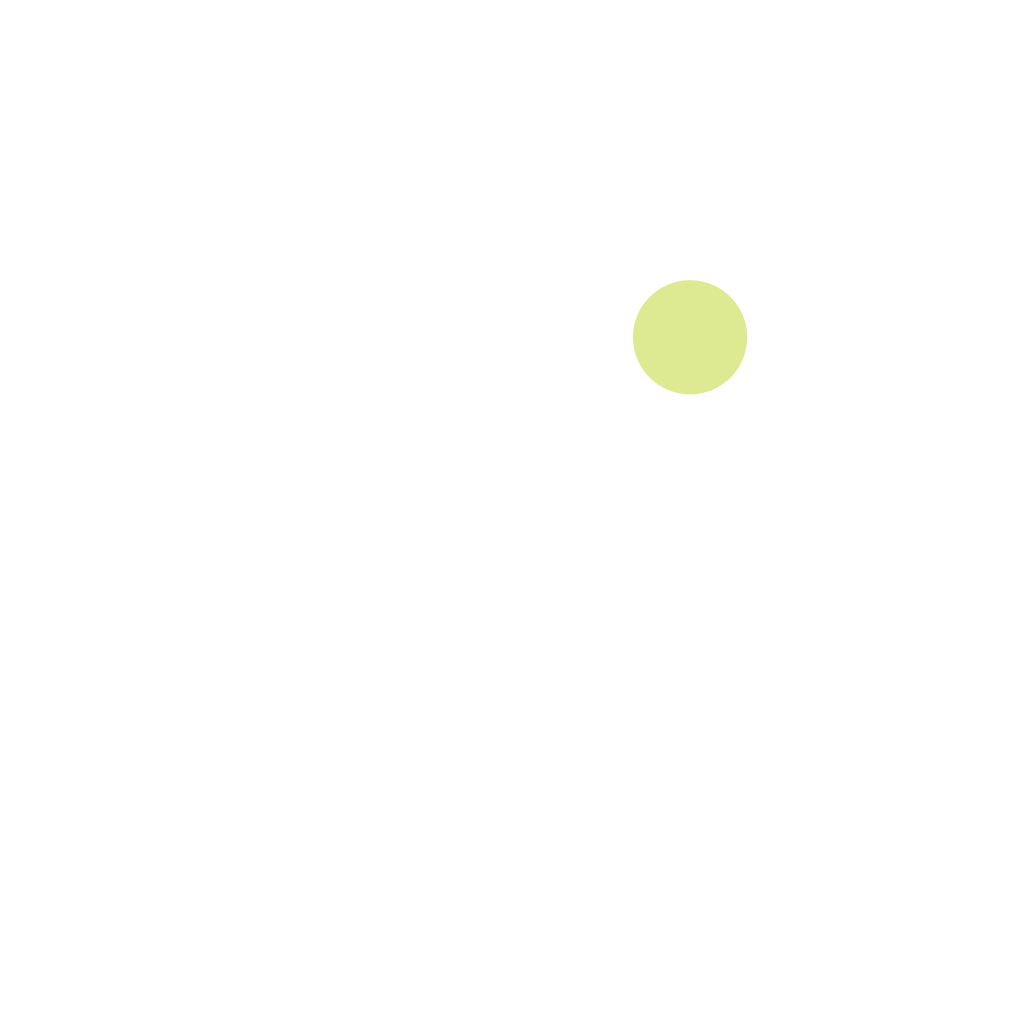
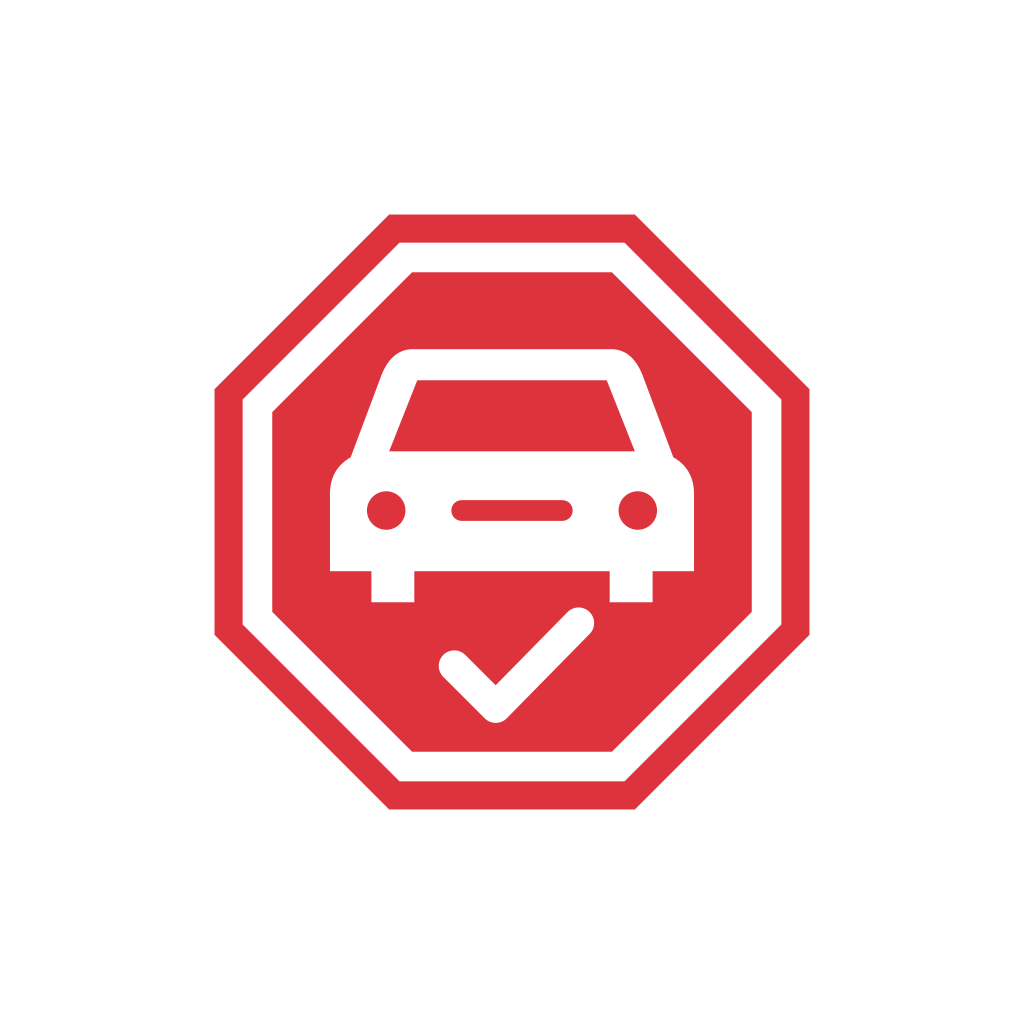
Use descriptive theory-test name and stop-sign-inspired identity

Changed region(s): [[0.1875, 0.1875, 0.8125, 0.8125]]

diff --git a/App.tsx b/App.tsx
@@ -322,8 +322,8 @@ function AppContent() {
         <View style={styles.header}>
           <Image accessible={false} source={brandAssets['brand-mark']} style={styles.brandMark} />
           <View style={styles.headerCopy}>
-            <Text style={styles.headerTitle}>Roadstep</Text>
-            <Text style={styles.headerEyebrow}>UK THEORY · TEST BUILD</Text>
+            <Text style={styles.headerTitle}>Driving Theory Test</Text>
+            <Text style={styles.headerEyebrow}>UK: LEARN · TEST BUILD</Text>
           </View>
           {tab !== 'search' ? <Pressable accessibilityRole="button" accessibilityLabel="Search questions"
             onPress={() => navigate('search')} style={styles.headerSearch}><Text style={styles.backText}>Search</Text></Pressable> : null}
@@ -519,7 +519,7 @@ const styles = StyleSheet.create({
   brandMark: { width: 38, height: 38, marginRight: 10, borderRadius: 11 },
   headerCopy: { flex: 1, minWidth: 0, marginRight: 12 },
   headerEyebrow: { color: colors.muted, fontSize: 8, fontWeight: '700', letterSpacing: 1, marginTop: 3 },
-  headerTitle: { color: colors.ink, fontSize: 20, fontWeight: '900' },
+  headerTitle: { color: colors.ink, fontSize: 17, fontWeight: '900' },
   notice: { marginHorizontal: 16, marginTop: 10, padding: 12, backgroundColor: '#FFF7E6', borderRadius: 12, borderWidth: 1, borderColor: '#F3D89E' },
   noticeText: { color: '#795A1A', fontSize: 12, lineHeight: 17 },
   noticeDismiss: { color: '#795A1A', fontWeight: '800', fontSize: 11, marginTop: 5 },

diff --git a/src/theme.ts b/src/theme.ts
@@ -1,4 +1,4 @@
-/** Shared Roadstep palette. Answer feedback keeps familiar green/red meaning. */
+/** Shared study palette. Answer feedback keeps familiar green/red meaning. */
 export const colors = {
   background: '#F7F7F2',
   surface: '#FFFFFF',

diff --git a/docs/BRAND.md b/docs/BRAND.md
@@ -1,13 +1,15 @@
-# Roadstep visual identity
+# Driving Theory Test UK: Learn identity
 
-Roadstep is the working brand for this internal Great Britain car-theory revision build. Its learning promise is simple: **UK theory, one step forward.** It is not an official DVSA product or a promise of passing the driving theory test. Public brand-name and trademark clearance remains outside this test update.
+The descriptive app title is **Driving Theory Test UK: Learn** (29 characters). The core phrase, “Driving Theory Test UK”, appears first; “Learn” describes the progress-led learning flow. The title is used in Expo/native app metadata, the README and the draft privacy notice. The compact in-app header splits the name across “Driving Theory Test” and “UK: LEARN”.
 
-The original mark is an ascending white path with three steps and a lime checkpoint dot on an indigo field. It represents visible learning progress, including returning to an earlier topic when revision is useful. It does not imply a verified mastery or pass-readiness score. The icon contains no national flag or endorsement badge.
+This wording follows the vocabulary of current [Google Play](https://play.google.com/store/apps/details?id=com.ablab.driving.theory.test.uk) and [Apple App Store](https://apps.apple.com/gb/app/driving-theory-test-uk-kit/id596040849) category listings. Both [Google Play](https://support.google.com/googleplay/android-developer/answer/9898842) and [Apple](https://developer.apple.com/help/app-store-connect/reference/app-information/app-information) allow titles up to 30 characters. This is a descriptive naming choice, not measured search-volume evidence or a search-ranking promise. No store listing has been published or renamed by this internal update.
 
-The shared palette in `src/theme.ts` uses warm offwhite (#F7F7F2), indigo (#4F46E5), dark ink (#202033), lime (#DDEA91), soft lavender (#EFEDFF) and quiet grey borders. Green and red retain their semantic meaning in answer feedback. Coverage, latest answer correctness and overall accuracy remain distinct concepts in the interface.
+## Road-sign variation
 
-Editable SVG masters and matching exported PNGs live in `src/assets/brand/`. The app icon is opaque. Android's adaptive foreground is transparent, with the symbol inset to protect its checkpoint under launcher masks; its separate background is indigo. The header uses the rounded-square brand mark. The seven matching outline icons have simple geometry that remains legible at small sizes.
+The original mark uses the familiar red octagonal silhouette of a STOP sign, with a white inset border. Its central symbol is a newly drawn front-view car and checkmark, replacing the STOP lettering. It represents driving knowledge and practice; it is not an actual instructional sign or an official approval badge. [DfT describes the STOP sign's distinctive octagonal shape](https://www.gov.uk/government/publications/know-your-traffic-signs/the-signing-system).
 
-Navigation remains compatible with existing routes. Its visible order is Home, Learn, Progress, Signs and Saved, with Progress in the centre. The active destination has a lime indicator; Progress retains an indigo tile when another destination is active. Labels and selected state remain available to screen readers.
+Editable SVG masters and matching PNG exports are in `src/assets/brand/`. The 1024px app icon has an opaque warm-offwhite background (#F7F7F2), red octagon (#DC333C), and white symbols. The adaptive foreground is transparent and inset so the complete sign fits launcher masks; its separate background is offwhite. The header mark has a rounded-square background. Full-size and 64px versions were inspected for legibility.
 
-All artwork is original project vector work. Competitor research informs the study flow, not the logo, artwork or typography. The package identifier, bundle identifier and question IDs remain unchanged so an update can preserve stored learning data. The old Union Flag asset is retained for any scoped country-reference use; it is no longer part of the launcher identity.
+The study interface retains indigo actions, lime progress accents and warm neutral surfaces from `src/theme.ts`. Red is used in the sign-inspired identity and retains its existing answer-feedback meaning. The Progress navigation icon remains an ascending path because it describes learning progress, independently of the app logo.
+
+The package identifier, bundle identifier, question IDs, database and signing identity stay compatible with the installed test app. This remains independent Great Britain car-theory revision, not an official DVSA product. The scope and content approvals are unchanged by naming or visual identity work.

diff --git a/docs/PROGRESS_FIRST_REDESIGN.md b/docs/PROGRESS_FIRST_REDESIGN.md
@@ -1,4 +1,4 @@
-# Roadstep progress-first test build
+# Progress-first theory test build
 
 ## Competitor review
 
@@ -10,7 +10,7 @@ Public references checked: [4 in 1 product listing](https://play.google.com/stor
 
 ## Product changes
 
-- Roadstep is the working internal brand: an original ascending checkpoint mark, warm neutral surfaces, indigo actions and lime accents. It has not undergone public brand clearance.
+- The identity uses the descriptive title **Driving Theory Test UK: Learn**, an original STOP-sign-inspired mark, warm neutral surfaces, indigo actions and lime accents. See `BRAND.md` for naming sources and artwork details.
 - Home starts with question coverage and one recommended next step: a saved session, up to ten unresolved mistakes, up to ten unseen questions, then mixed revision. Focus areas link directly to their topic setup.
 - Progress is the central navigation destination. The learning route links bank exploration, mistakes and mixed revision to practice; each topic has an actionable coverage row.
 - Coverage, correct last try, questions to revisit and historical answer accuracy have separate definitions. A later wrong answer moves a question back into review. Incomplete coverage cannot round up to 100%.
@@ -20,6 +20,6 @@ Public references checked: [4 in 1 product listing](https://play.google.com/stor
 
 ## Scope and validation
 
-Version 0.5.0 / Android code 7 retains the existing package, SQLite database and update signing identity. This is a Great Britain car-theory internal test build, not a licensed complete DVSA question bank or a hazard-perception product. Coverage and current answers are study measures, not an official-test readiness probability.
+Version 0.5.1 / Android code 8 retains the existing package, SQLite database and update signing identity. This is a Great Britain car-theory internal test build, not a licensed complete DVSA question bank or a hazard-perception product. Coverage and current answers are study measures, not an official-test readiness probability.
 
 Validation covers TypeScript, regression tests for the learning model and existing session/revision engines, learner Android/iOS exports and selected-image checks, the internal full-image export, and native CI. Device QA must verify the rebrand, current-session discard with unchanged answer/bookmark history, actionable progress rows, answer updates and cold restart. Record final build/device results in the workspace result document.

diff --git a/README.md b/README.md
@@ -1,6 +1,6 @@
-# Roadstep
+# Driving Theory Test UK: Learn
 
-An independent, offline Great Britain car theory revision app built with Expo, React Native, TypeScript and SQLite. Progress-first test update **0.5.0**, versionCode **7**. Not affiliated with DVSA.
+An independent, offline Great Britain car theory revision app built with Expo, React Native, TypeScript and SQLite. Search-name and road-sign identity update **0.5.1**, versionCode **8**. Not affiliated with DVSA.
 
 ## Included in the MVP
 
@@ -29,7 +29,7 @@ See the [MVP implementation and phone competitor audit](docs/MVP_IMPLEMENTATION_
 
 The main tabs are **Home, Learn, Progress, Signs and Saved**. Home shows your learning position and recommends a next step. Progress is the central destination for your learning route and topics. Learn opens practice setup; illustrated practice, signs, flashcards and timed checks remain available. Search is in the header.
 
-See the [progress-first redesign and competitor review](docs/PROGRESS_FIRST_REDESIGN.md) and [Roadstep identity](docs/BRAND.md).
+See the [progress-first redesign and competitor review](docs/PROGRESS_FIRST_REDESIGN.md) and [road-sign identity and store name](docs/BRAND.md).
 
 Topics open in a picker rather than a long list above the content. Back returns to the actual previous screen with its search, selections and position retained. The Android Back key closes the topic picker before leaving a screen. A saved practice session is resumed explicitly from Home.
 

diff --git a/docs/MVP_RELEASE_TARGET.md b/docs/MVP_RELEASE_TARGET.md
@@ -10,8 +10,9 @@ third-party analytics or in-app purchases required for study.
 
 MVP positioning: **independent car theory revision**, not an official DVSA
 app and not a full "4-in-1" mock test replacement. The working repository
-name can remain while we settle a distinct Play Store title and approved
-store metadata. Do not imply Great Britain content covers Northern Ireland.
+name can remain. The current descriptive title is **Driving Theory Test UK: Learn**
+(17 November 2026), pending the existing store-publication process and metadata
+approval. Do not imply Great Britain content covers Northern Ireland.
 
 ## In-scope user journey
 

diff --git a/docs/PRIVACY_POLICY_DRAFT.md b/docs/PRIVACY_POLICY_DRAFT.md
@@ -1,8 +1,8 @@
-# UK Theory Test Kit — privacy notice (DRAFT, NOT YET PUBLISHED)
+# Driving Theory Test UK: Learn — privacy notice (DRAFT, NOT YET PUBLISHED)
 
 Last revised: 6 November 2026
 
-This draft explains the intended data handling of **UK Theory Test Kit**, an
+This draft explains the intended data handling of **Driving Theory Test UK: Learn**, an
 independent Great Britain car-theory revision app. The app is not operated by,
 affiliated with or endorsed by DVSA.
 
